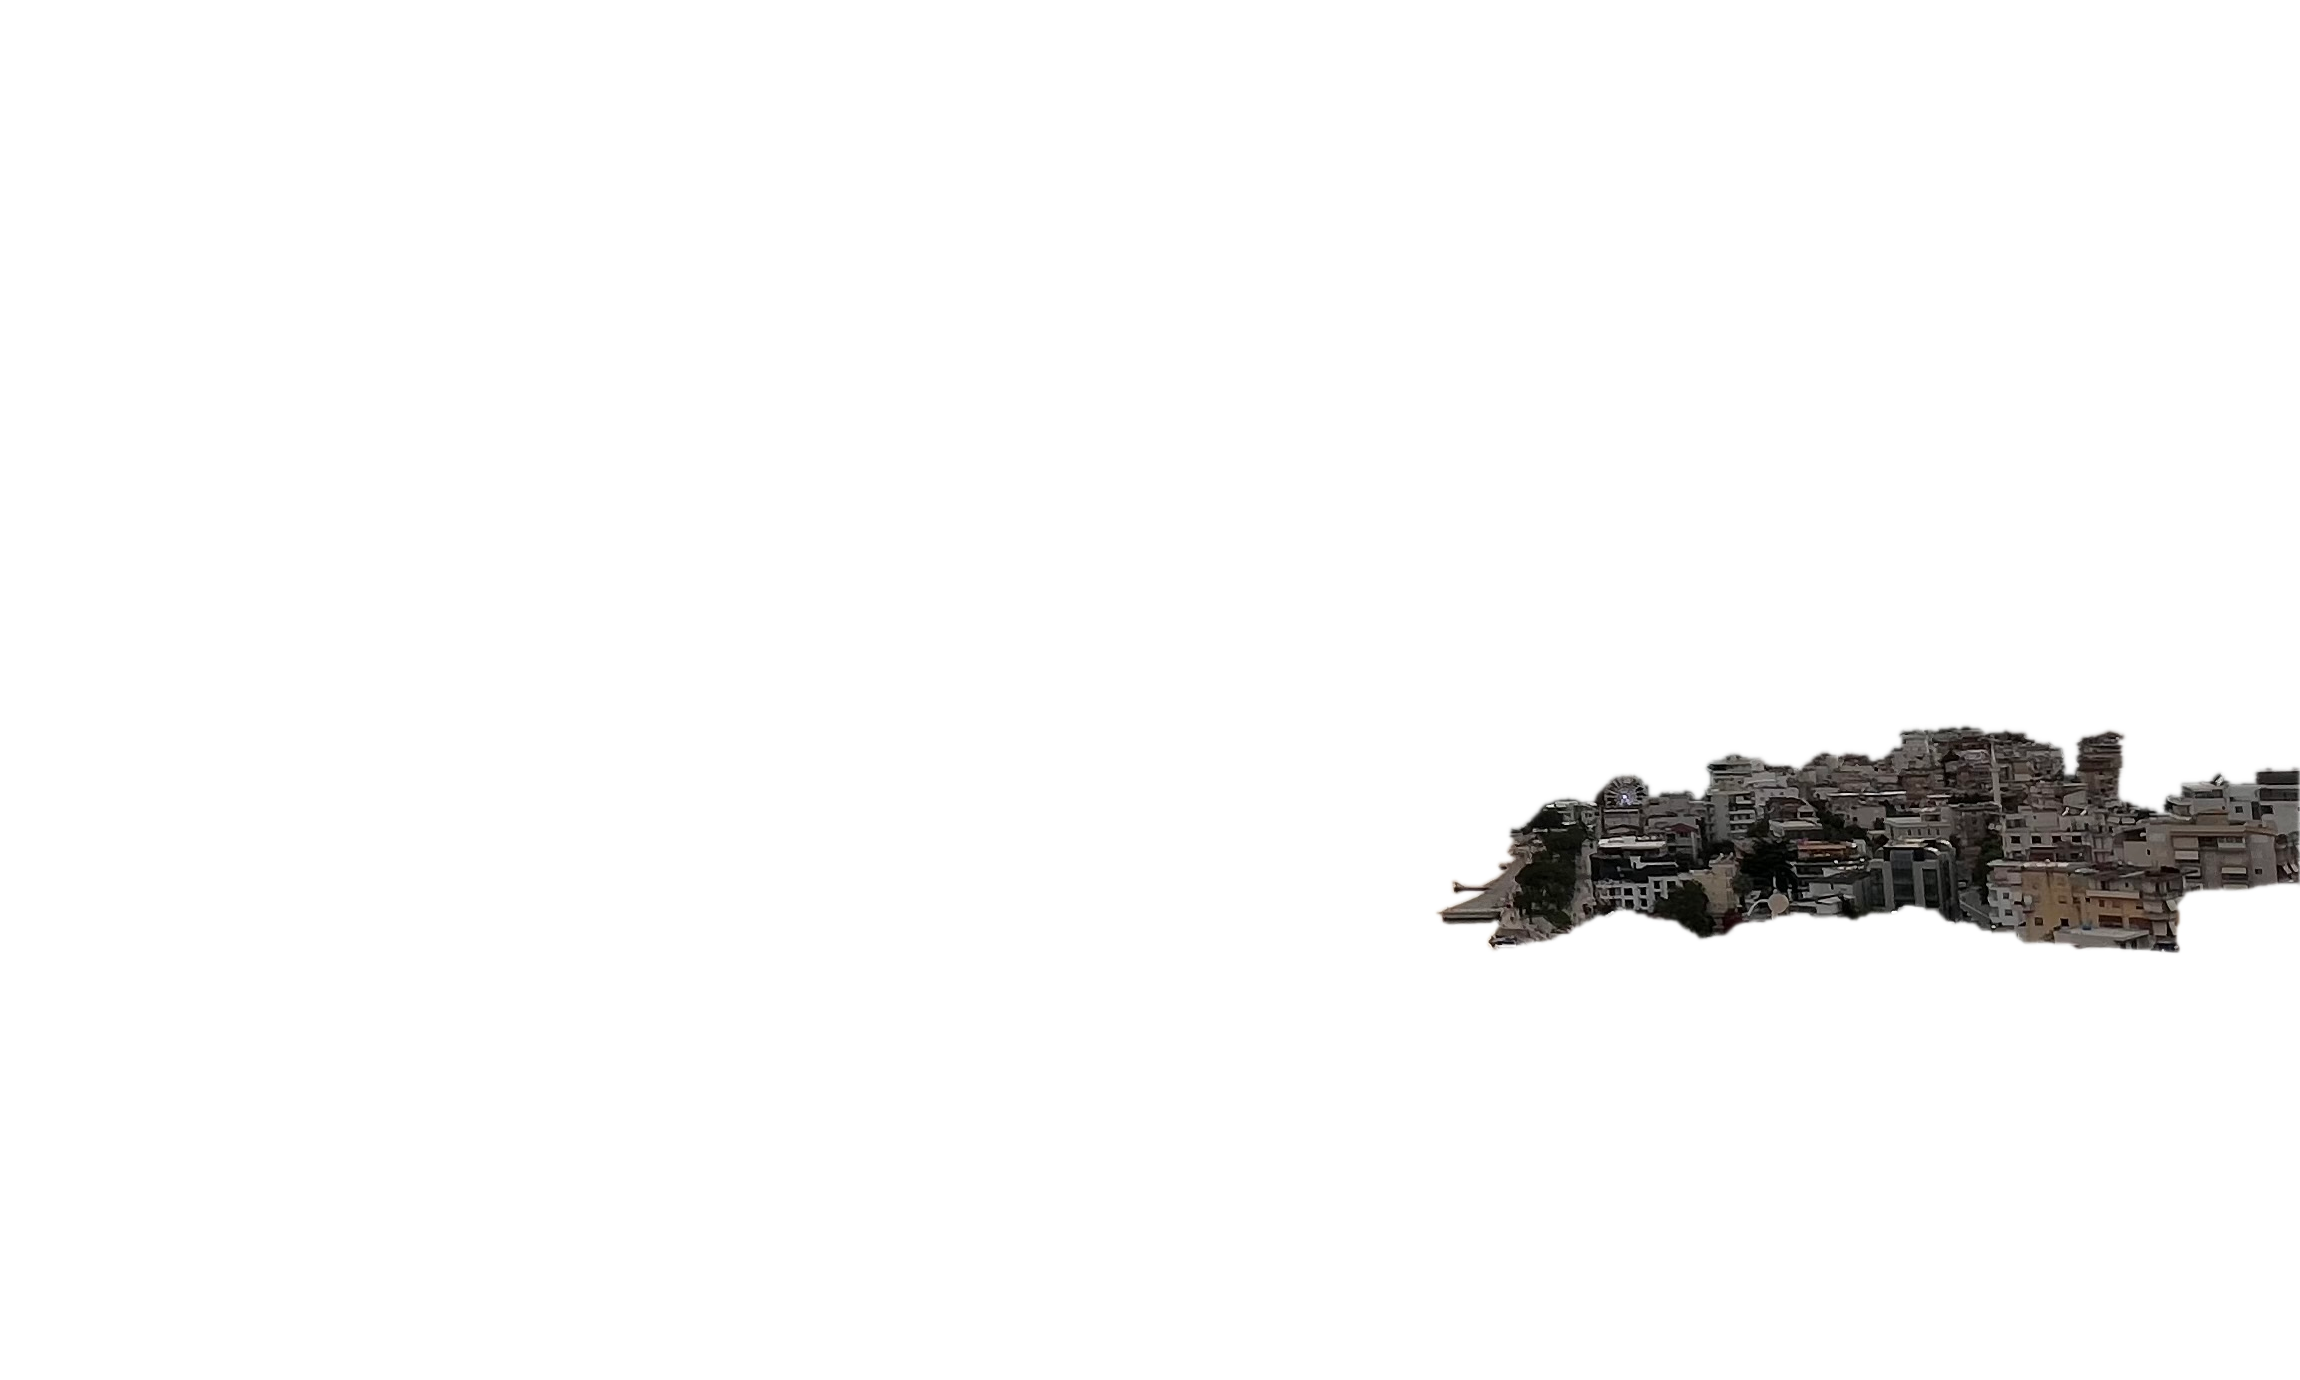
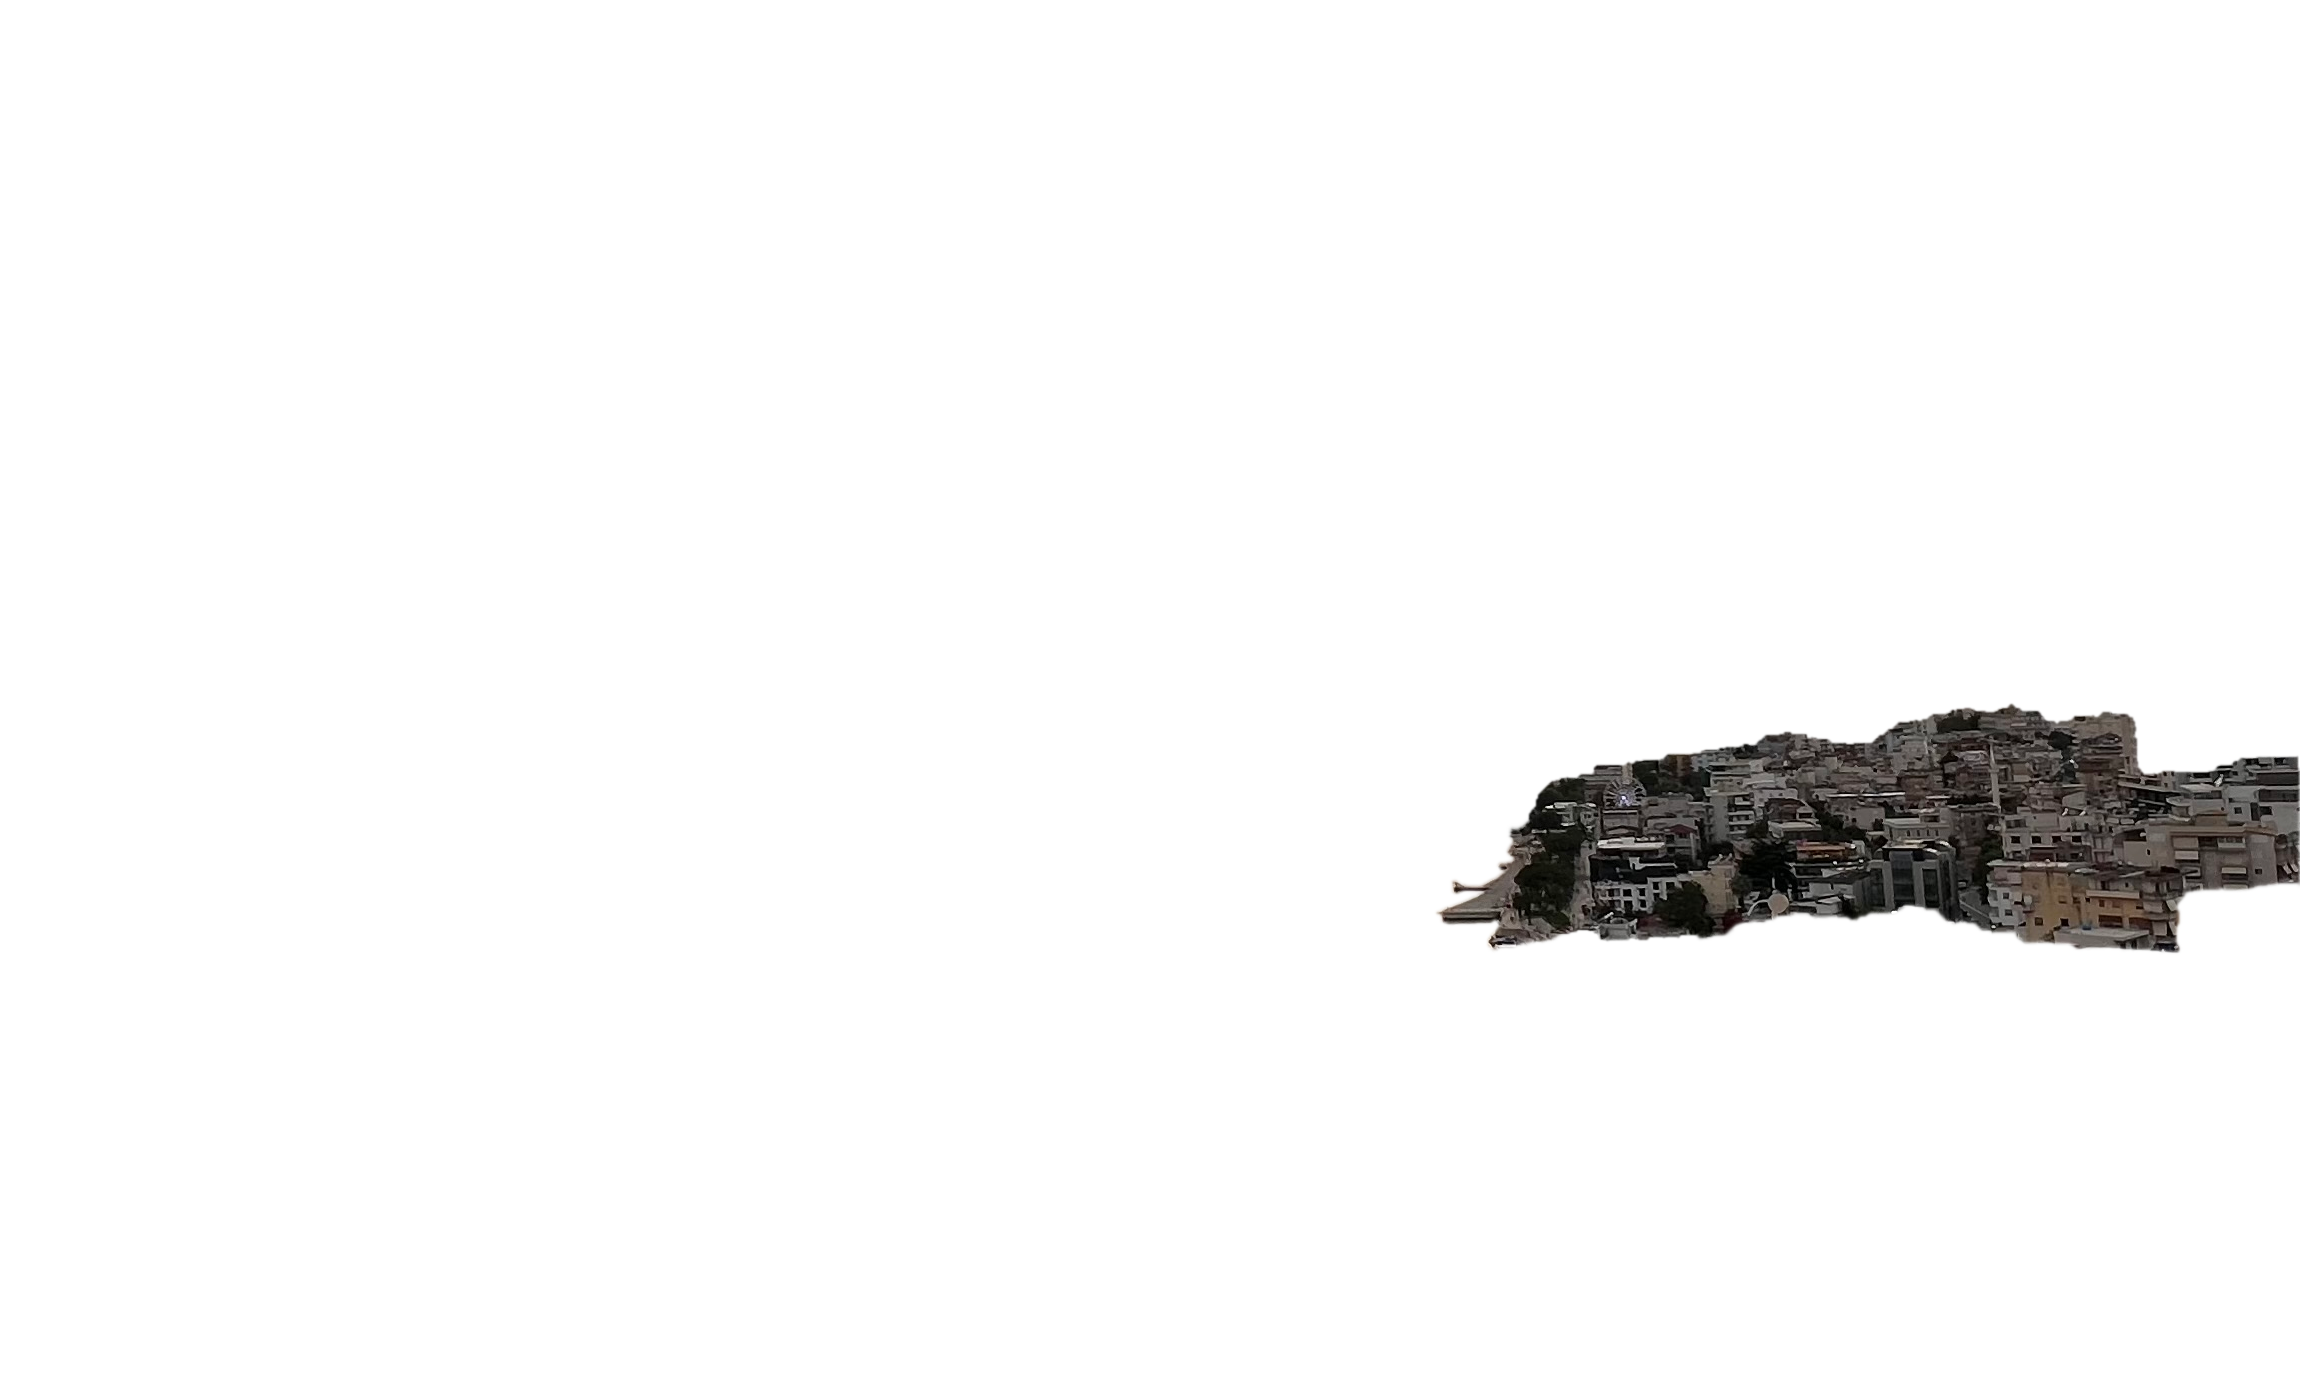
Close to Final GUI

Changed region(s): [[0.6483, 0.4986, 1.0, 0.6855]]

diff --git a/Index.html b/Index.html
@@ -11,11 +11,15 @@
         <img src="./Imgs/Building1.png" alt="B1" id="B1">
         <img src="./Imgs/Building2.png" alt="B2" id="B2">
         <img src="./Imgs/Building3.png" alt="B3" id="B3">
-        <img src="./Imgs/Building4.png" alt="B4" id="B4">
+        <img src="./Imgs/Building44.png" alt="B4" id="B4">
         <img src="./Imgs/Building5.png" alt="B5" id="B5">
         <img src="./Imgs/Building6.png" alt="B5" id="B6">
         <img src="./Imgs/Sea.png" alt="Sea" id="Sea">
         <img src="./Imgs/Sky.png" alt="Sky" id='Sky'>
     </div>
+
+    <script src="https://cdnjs.cloudflare.com/ajax/libs/gsap/3.12.2/gsap.min.js"></script>
+    <script src="./Script.js"></script>
+    
 </body>
 </html>

diff --git a/Styles.css b/Styles.css
@@ -17,15 +17,15 @@
 }
 
 #B3 {
-    z-index: 10;
+    z-index: 7;
 }
 
 #B4 {
-    z-index: 9;
+    z-index: 4;
 }
 
 #B5 {
-    z-index: 5;
+    z-index: 7;
 }
 
 #B6 {
@@ -39,5 +39,5 @@
 
 #Sea {
     z-index: 0;
-    transform: scale(1.025);
+    /* transform: scale(1.025); */
 }
